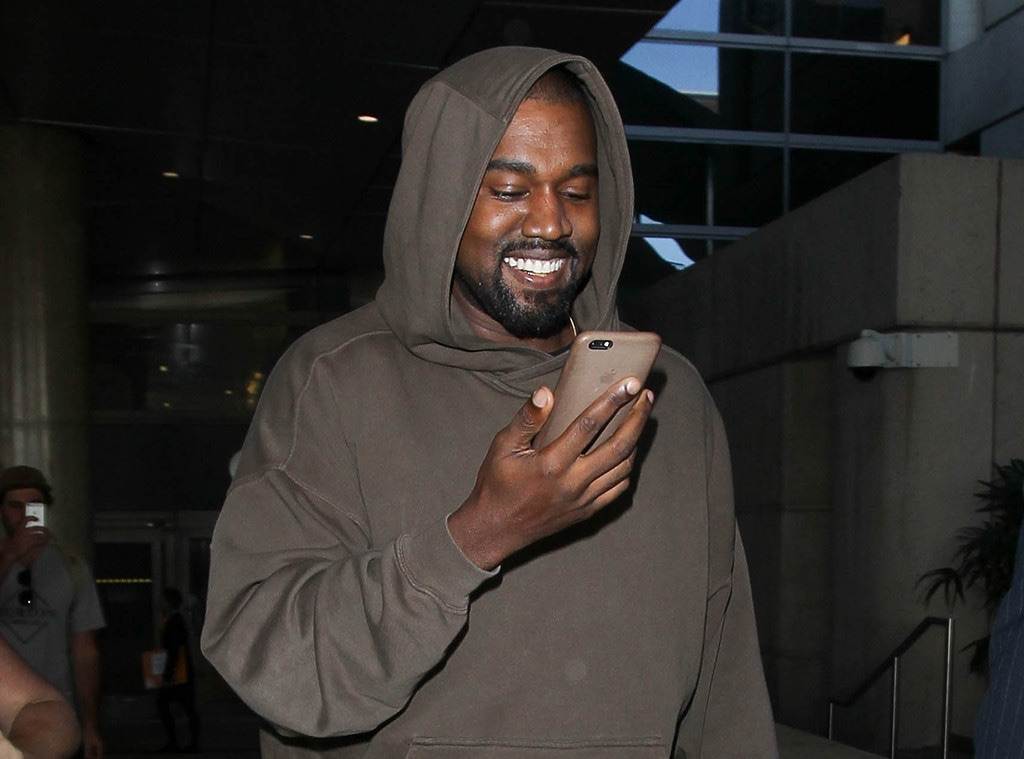
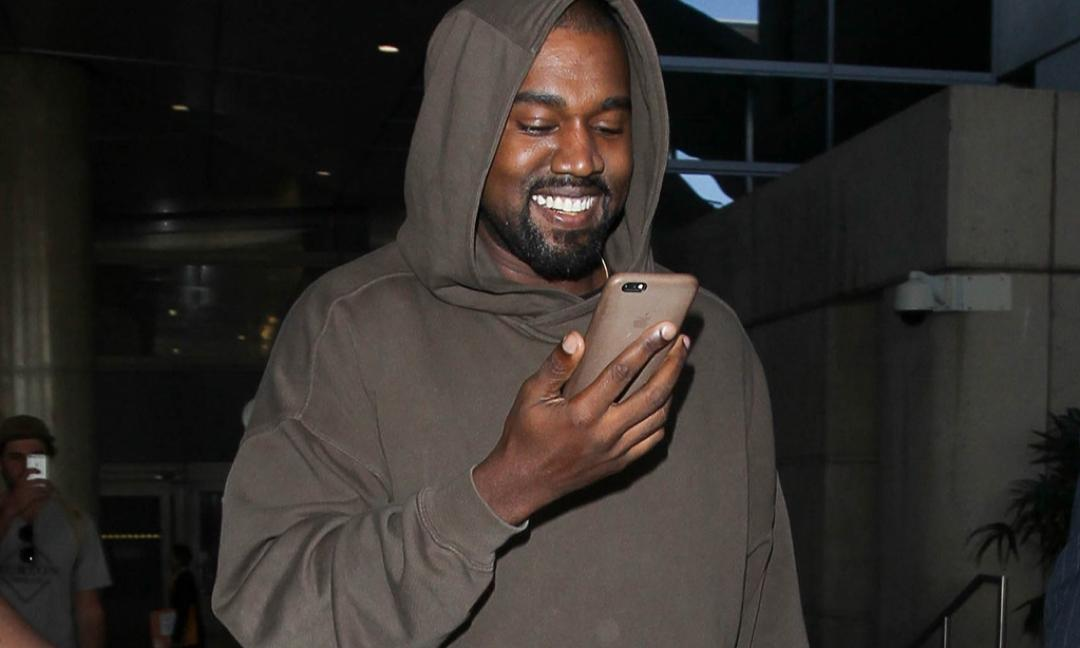
resized images and included hover color

diff --git a/client/lab_3/index.html b/client/lab_3/index.html
@@ -31,7 +31,7 @@
    <!--right side-->
    <h2>Image Carousel</h2>
    <div class="carousel">
-    <button class="prev">prev</button>
+    <button class="prev hover">prev</button>
        <div class="slides">
        <div class="carousel_item visible"><img id="slide_1" src="Happy Kanye.png" alt="Happy Kanye"/></div>
        <div class="carousel_item hidden"><img id="slide_2" src="Intrested Kanye.png" alt="Intrested Kanye"/></div>
@@ -39,7 +39,7 @@
        <div class="carousel_item hidden"><img id="slide_4" src="Worried Kanye.png" alt="Worried Kanye"/></div>
     
       </div>
-        <button class="next">next</button>
+        <button class="next hover">next</button>
     </div>
 
         <div class="box subtitle">

diff --git a/client/lab_3/style.css b/client/lab_3/style.css
@@ -258,10 +258,10 @@ div.carousel {
 .prev:focus,
 .next:focus {
   margin: 0;
-  /* Pick a good border colour and check out how it works with your buttons */
+  border: 2px solid rgb(236, 10, 10);/* Pick a good border colour and check out how it works with your buttons */
 }
 
 .prev:hover,
 .next:hover {
-  /* Pick a good background colour for your hover pseudoclass */
+  border: 2px solid rgb(234, 17, 17); /* Pick a good background colour for your hover pseudoclass */
 }
